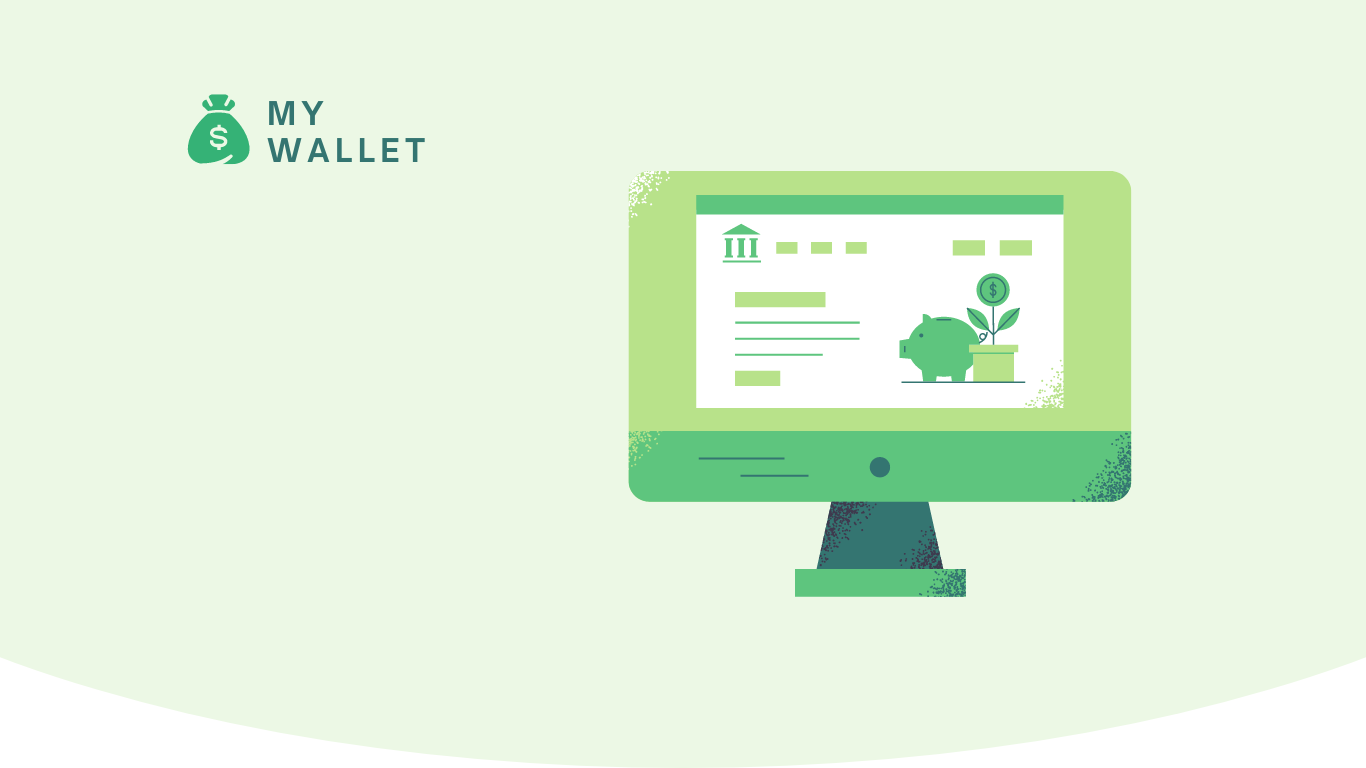
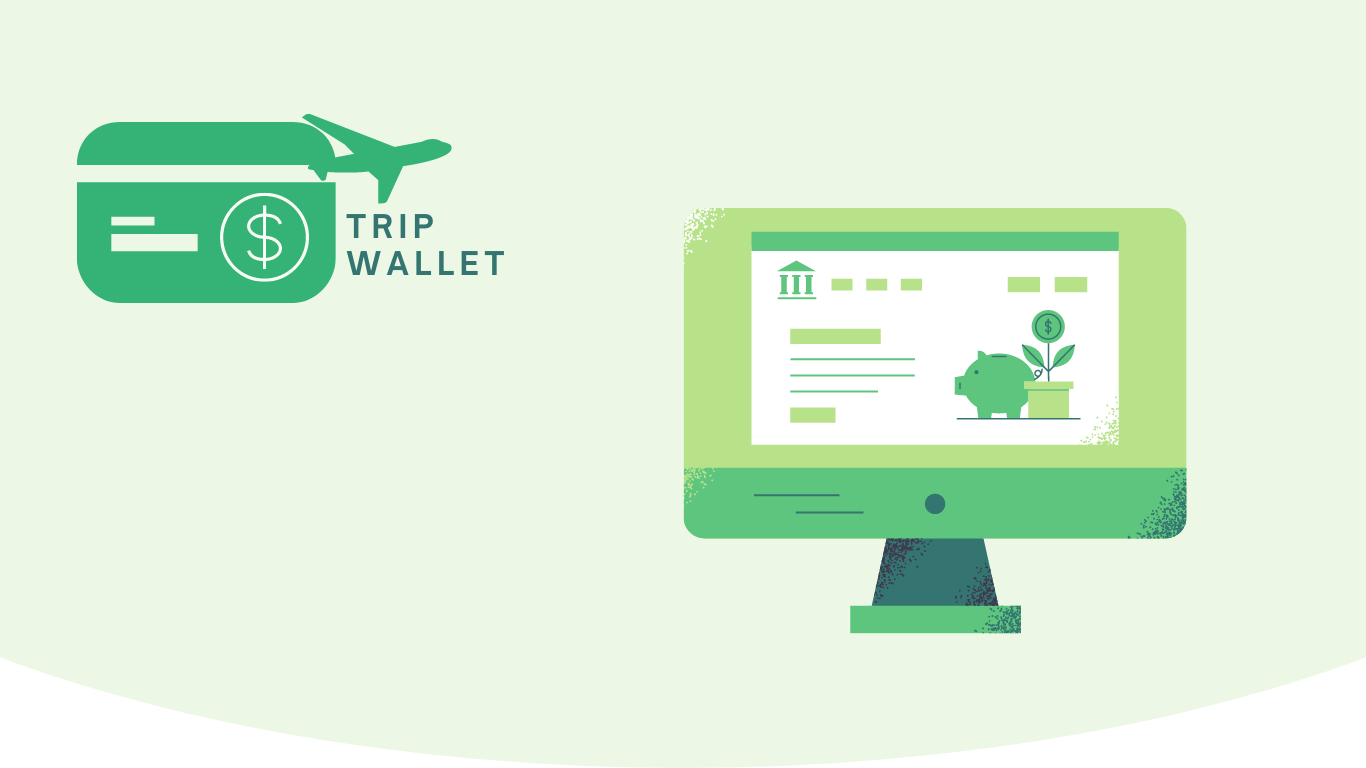
alterando css walletForm

Changed region(s): [[0.4612, 0.2188, 0.8917, 0.8438], [0.0307, 0.125, 0.369, 0.4062]]

diff --git a/src/components/Header.js b/src/components/Header.js
@@ -1,17 +1,25 @@
 import PropTypes from 'prop-types';
 import React, { Component } from 'react';
 import { connect } from 'react-redux';
+import logo from '../image/logo.png';
+import './header.css';
+// import img from 'react-image'
+// import logo from '../../assets/logo.png';
+// import itOnly from '../../imgs/itOnly.png';
+// import { Image } from 'react-native';
 
 class Header extends Component {
   render() {
     const { email, expenses } = this.props;
     return (
-      <>
-        <div>Header</div>
-        <header>
+      <header className="header">
+        <div>
+          <img src={ logo } alt="logo" className="imgHeader" />
+        </div>
+        <div className="email-valor">
           <span data-testid="email-field">{ email }</span>
           <label htmlFor="total-field">
-            <span data-testid="total-field">
+            <span data-testid="total-field" className="total-field">
               { expenses.reduce((acc, curr) => {
                 acc += +curr.value * +curr.exchangeRates[curr.currency].ask;
                 return acc;
@@ -19,8 +27,8 @@ class Header extends Component {
             </span>
           </label>
           <span data-testid="header-currency-field">BRL</span>
-        </header>
-      </>
+        </div>
+      </header>
     );
   }
 }

diff --git a/src/components/Table.js b/src/components/Table.js
@@ -2,6 +2,7 @@ import PropTypes from 'prop-types';
 import React, { Component } from 'react';
 import { connect } from 'react-redux';
 import { clearButton } from '../redux/actions';
+import './table.css';
 
 class Table extends Component {
   clearExpense = ({ target }) => {
@@ -15,19 +16,19 @@ class Table extends Component {
     // console.log(expenses);
     return (
       <>
-        <h3>Table</h3>
-        <table>
+        {/* <h3>Table</h3> */}
+        <table className="table">
           <thead>
             <tr>
               <th>Descrição</th>
               <th>Tag</th>
-              <th>Método de pagamento</th>
+              <th>Método de pagamento </th>
               <th>Valor</th>
               <th>Moeda</th>
               <th>Câmbio utilizado</th>
               <th>Valor convertido</th>
               <th>Moeda de conversão</th>
-              <th>Editar/Excluir</th>
+              <th>Excluir</th>
             </tr>
           </thead>
           <tbody>
@@ -53,6 +54,7 @@ class Table extends Component {
                   key="delete-btn"
                 >
                   <button
+                    className="buttonEx"
                     id={ expense.id }
                     type="button"
                     data-testid="delete-btn"

diff --git a/src/components/WalletForm.js b/src/components/WalletForm.js
@@ -2,6 +2,7 @@ import PropTypes from 'prop-types';
 import React, { Component } from 'react';
 import { connect } from 'react-redux';
 import { fetchAPI, totalExpenses } from '../redux/actions';
+import '../pages/wallet.css';
 
 class WalletForm extends Component {
   state = {
@@ -46,8 +47,8 @@ class WalletForm extends Component {
     const { currencies } = this.props;
     return (
       <>
-        <h3>WalletForm</h3>
-        <form>
+        {/* <h3>WalletForm</h3> */}
+        <form className="walletForm">
           <label htmlFor="value">
             <input
               data-testid="value-input"
@@ -110,6 +111,7 @@ class WalletForm extends Component {
           type="button"
           // disabled={ isDisabled }
           onClick={ this.addExpenses }
+          className="buttonAdd"
         >
           Adicionar despesa
         </button>

diff --git a/src/components/table.css b/src/components/table.css
@@ -1,0 +1,33 @@
+.table {
+  margin-left: 40px;
+  margin-right: 40px;
+  margin-top: 20px;
+  background-color: white;
+  border: 1px solid black;
+  border-radius: 10px 10px 10px 10px;
+  text-align: center;
+}
+
+table, td {
+  border: 1px solid #017e28;
+  border-radius: 10px 10px 10px 10px;
+  border-style:dotted;
+  /* border-collapse:; */
+  padding-top: 3px;
+  padding-left: 3px;
+  padding-right: 3px;
+  padding-bottom: 5px;
+  padding: 5px;
+}
+
+table, th {
+  padding-top: 5px;
+  padding: 3px;
+
+}
+
+.buttonEx {
+  border-radius: 10px 10px 10px 10px;
+  width: 100px;
+  height: 30px;
+}

diff --git a/src/pages/Wallet.js b/src/pages/Wallet.js
@@ -3,15 +3,16 @@ import { connect } from 'react-redux';
 import Header from '../components/Header';
 import Table from '../components/Table';
 import WalletForm from '../components/WalletForm';
+import './wallet.css';
 
 class Wallet extends React.Component {
   render() {
     return (
-      <>
+      <div className="wallet">
         <Header />
         <WalletForm />
         <Table />
-      </>
+      </div>
     );
   }
 }

diff --git a/src/pages/wallet.css b/src/pages/wallet.css
@@ -1,0 +1,22 @@
+.wallet {
+  background-color: #C5FFD7;
+}
+
+body {
+  background-color: #C5FFD7;
+}
+
+.walletForm {
+  align-items: center;
+  display: flex;
+  /* padding: 20px; */
+  justify-content: center;
+  margin-top: 3%;
+  margin-right: 50px;
+  background-color: #C5FFD7;
+}
+
+.buttonAdd {
+  margin-left: 43%;
+  margin-top: 1%;
+}

diff --git a/src/components/header.css b/src/components/header.css
@@ -1,0 +1,23 @@
+.imgHeader {
+  width: 150px;
+}
+
+.header {
+  align-items: center;
+  display: flex;
+  padding: 20px;
+  /* justify-content: center; */
+  background-color: #C5FFD7;
+}
+
+.email-valor {
+  padding-left: 20px;
+}
+
+.total-field {
+  padding-left: 20px;
+}
+
+.header-currency-field {
+  padding-left: 20px;
+}
